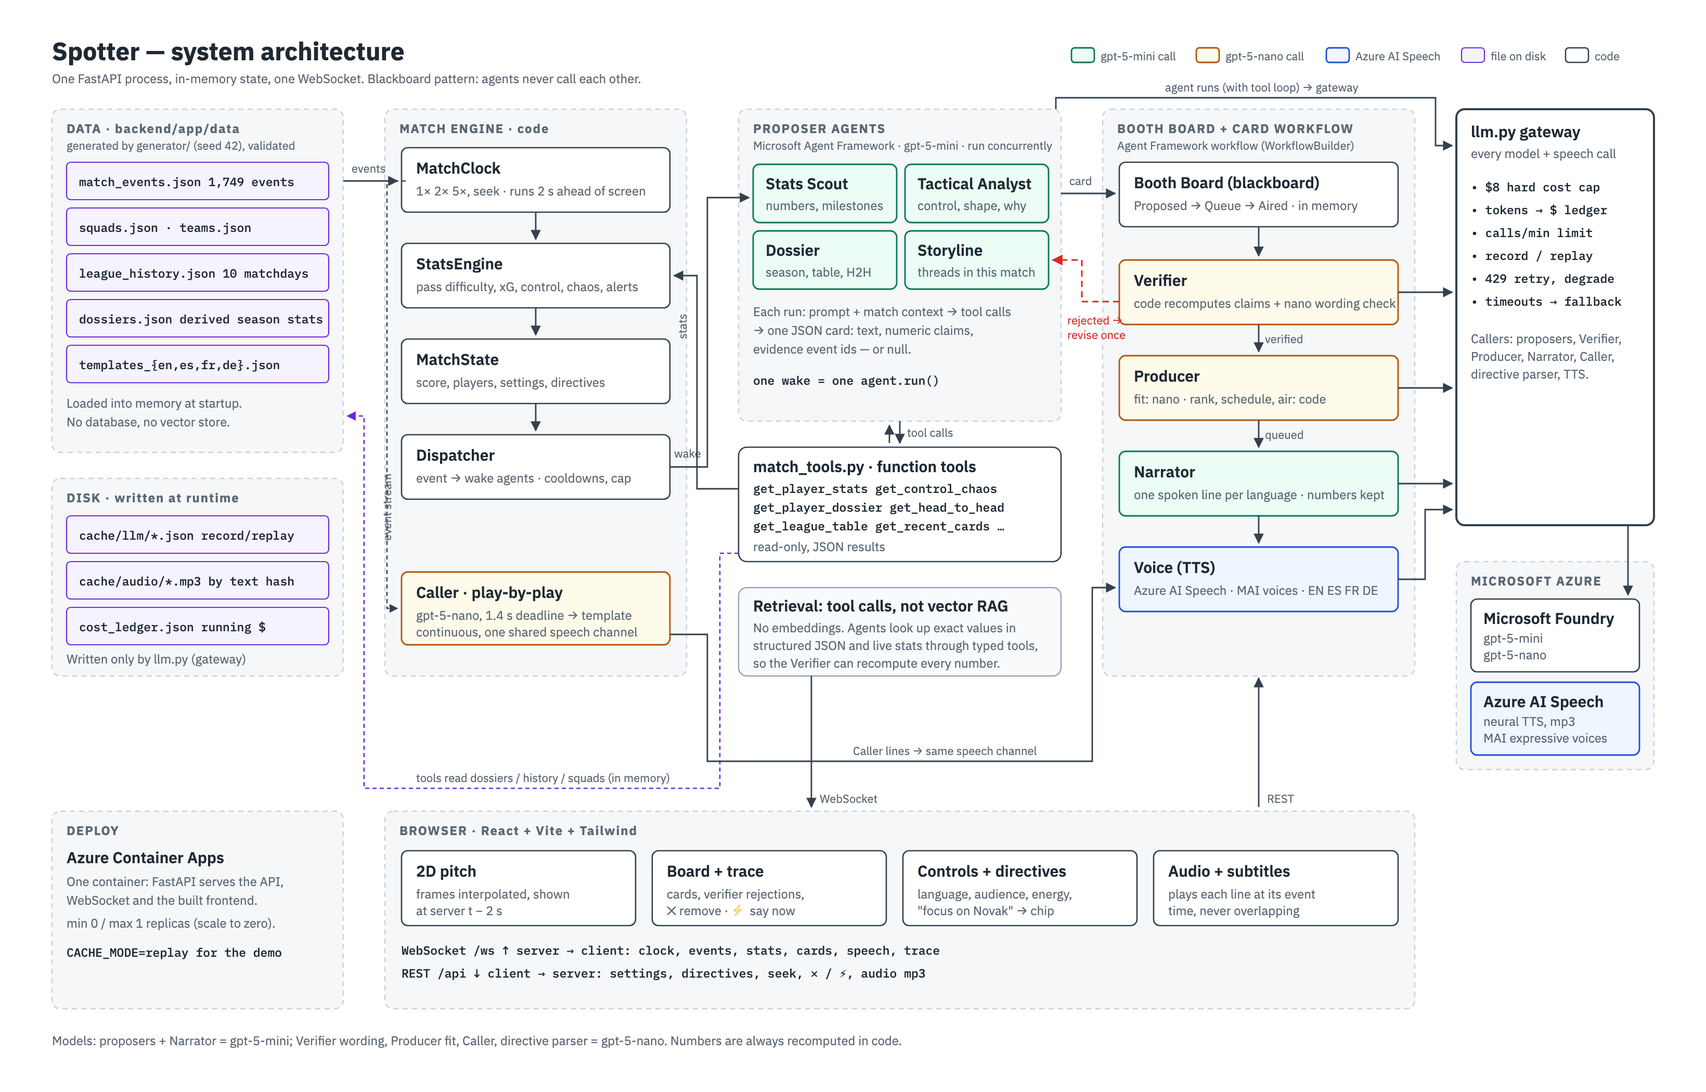
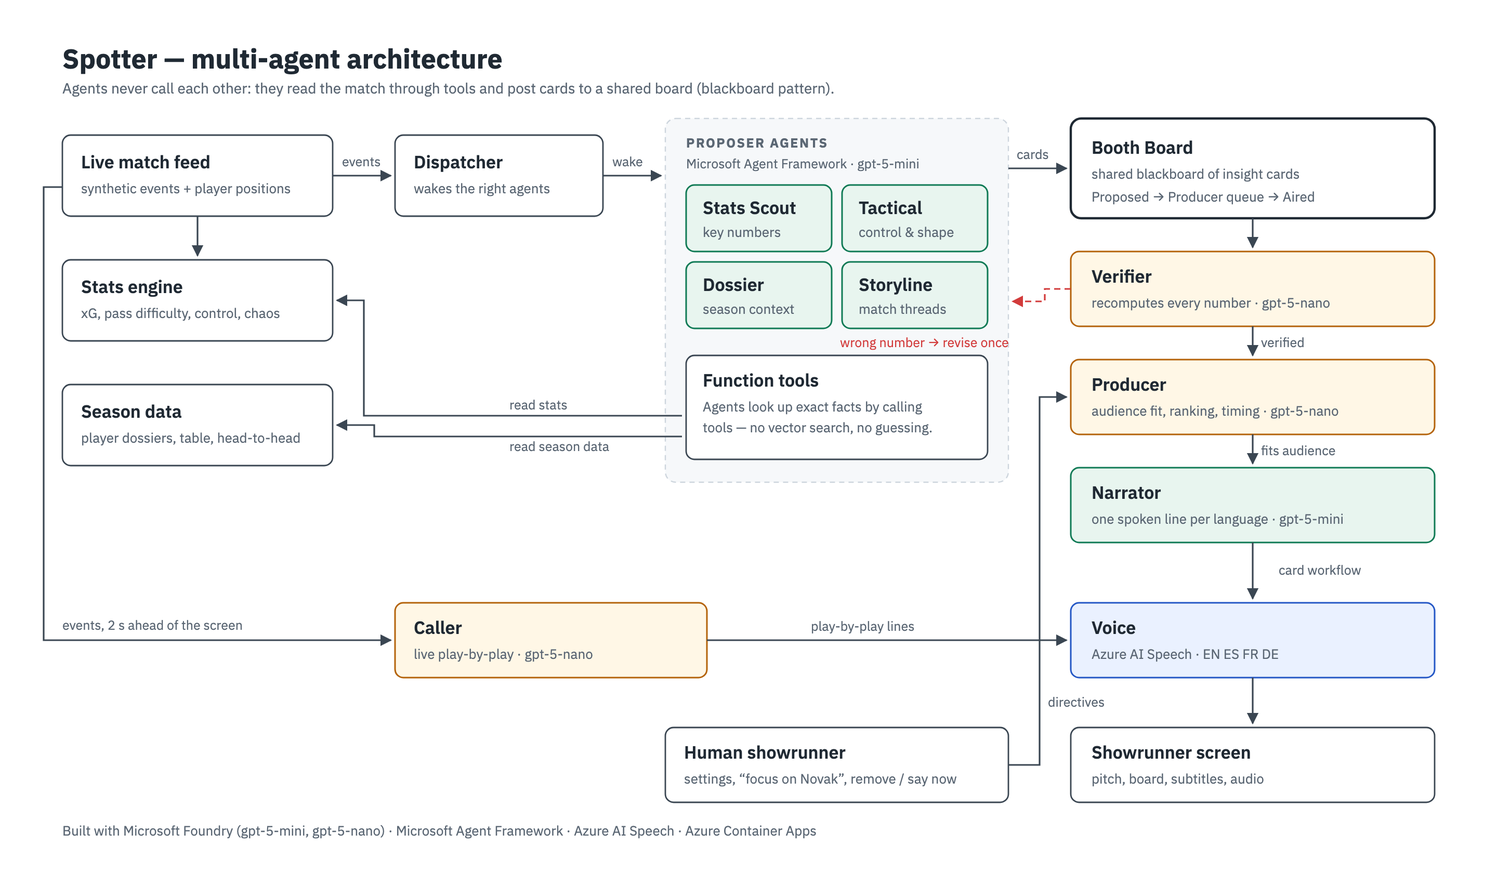
Architecture diagram: simplified to the multi-agent essentials

diff --git a/docs/architecture.html b/docs/architecture.html
@@ -1,16 +1,16 @@
 <title>Spotter Architecture</title>
 <meta name="claude:viewport-fit-sides" content="cover">
-<link rel="stylesheet" href="https://fonts.googleapis.com/css2?family=IBM+Plex+Sans:wght@400;500;600;700&family=IBM+Plex+Mono:wght@500&display=swap">
+<link rel="stylesheet" href="https://fonts.googleapis.com/css2?family=IBM+Plex+Sans:wght@400;500;600;700&display=swap">
 <style>
-/* Layout: one white technical diagram (draw.io style) in an SVG, five columns left→right:
-   data → match engine → proposer agents → board + card workflow → model gateway, browser underneath.
-   Deliberately a single light look so it screenshots cleanly into the README. */
+/* Layout: a lean white boxes-and-arrows diagram. Left: what the agents read. Middle: the four proposer
+   agents. Right: the shared board and the chain that decides what is said. Bottom: live play-by-play and
+   the human showrunner. Deliberately one light look so it screenshots cleanly into the README. */
 :root {
   color-scheme: light;
-  --bg: #ffffff; --ink: #1f2933; --muted: #5b6774; --line: #33404d; --group: #f5f7f9; --group-line: #c9d2db;
-  --mini: #047857; --mini-bg: #ecfdf5; --nano: #b45309; --nano-bg: #fffbeb; --speech: #1d4ed8; --speech-bg: #eff6ff;
-  --store: #6d28d9; --store-bg: #f5f3ff; --reject: #dc2626;
-  --sans: "IBM Plex Sans", system-ui, sans-serif; --mono: "IBM Plex Mono", ui-monospace, monospace;
+  --bg: #ffffff; --ink: #1f2933; --muted: #5b6774; --line: #3a4652; --group: #f6f8fa; --group-line: #cdd5dd;
+  --agent: #e8f5ef; --agent-line: #0f7a55; --check: #fff7e6; --check-line: #b4630a; --voice: #eaf1ff; --voice-line: #2457c5;
+  --reject: #d23b3b;
+  --sans: "IBM Plex Sans", system-ui, sans-serif;
 }
 body { background: var(--bg); color: var(--ink); font-family: var(--sans); }
 .wrap {
@@ -19,199 +19,118 @@ body { background: var(--bg); color: var(--ink); font-family: var(--sans); }
   padding-right: max(16px, env(safe-area-inset-right, 0px));
 }
 .scroll { overflow-x: auto; }
-svg { display: block; width: 100%; min-width: 1100px; max-width: 1600px; margin: 0 auto; height: auto; }
+svg { display: block; width: 100%; min-width: 960px; max-width: 1400px; margin: 0 auto; height: auto; }
 svg text { font-family: var(--sans); fill: var(--ink); }
-.t { font-size: 15px; font-weight: 600; }
-.s { font-size: 12px; fill: var(--muted); }
-.m { font-family: var(--mono); font-size: 11.5px; fill: var(--ink); }
-.g { font-size: 12px; font-weight: 700; letter-spacing: .08em; fill: var(--muted); }
-.h1 { font-size: 24px; font-weight: 700; }
-.lbl { font-size: 11px; fill: var(--muted); }
-.box { fill: #fff; stroke: var(--line); stroke-width: 1.3; }
+.title { font-size: 26px; font-weight: 700; }
+.sub { font-size: 14px; fill: var(--muted); }
+.t { font-size: 17px; font-weight: 600; }
+.s { font-size: 13px; fill: var(--muted); }
+.g { font-size: 12.5px; font-weight: 700; letter-spacing: .1em; fill: var(--muted); }
+.lbl { font-size: 12.5px; fill: var(--muted); }
+.pill { font-size: 11.5px; font-weight: 600; }
+.box { fill: #fff; stroke: var(--line); stroke-width: 1.4; }
 .grp { fill: var(--group); stroke: var(--group-line); stroke-width: 1.2; stroke-dasharray: 5 4; }
-.file { fill: var(--store-bg); stroke: var(--store); stroke-width: 1.1; }
-.mini { fill: var(--mini-bg); stroke: var(--mini); stroke-width: 1.4; }
-.nano { fill: var(--nano-bg); stroke: var(--nano); stroke-width: 1.4; }
-.speech { fill: var(--speech-bg); stroke: var(--speech); stroke-width: 1.4; }
-.a { stroke: var(--line); stroke-width: 1.4; fill: none; marker-end: url(#arr); }
-.ad { stroke: var(--line); stroke-width: 1.2; fill: none; stroke-dasharray: 4 3; marker-end: url(#arr); }
-.ar { stroke: var(--reject); stroke-width: 1.5; fill: none; stroke-dasharray: 6 4; marker-end: url(#arrR); }
-.ap { stroke: var(--store); stroke-width: 1.3; fill: none; stroke-dasharray: 4 3; marker-end: url(#arrP); }
+.agent { fill: var(--agent); stroke: var(--agent-line); stroke-width: 1.5; }
+.check { fill: var(--check); stroke: var(--check-line); stroke-width: 1.5; }
+.voice { fill: var(--voice); stroke: var(--voice-line); stroke-width: 1.5; }
+.board { fill: #fff; stroke: var(--ink); stroke-width: 2.2; }
+.a { stroke: var(--line); stroke-width: 1.6; fill: none; marker-end: url(#arr); }
+.ar { stroke: var(--reject); stroke-width: 1.6; fill: none; stroke-dasharray: 6 4; marker-end: url(#arrR); }
 </style>
 
 <div class="wrap"><div class="scroll">
-<svg viewBox="0 0 1600 1010" role="img" aria-label="Spotter system architecture diagram">
+<svg viewBox="0 0 1400 800" role="img" aria-label="Spotter multi-agent architecture">
   <defs>
-    <marker id="arr" viewBox="0 0 10 10" refX="9" refY="5" markerWidth="7" markerHeight="7" orient="auto-start-reverse"><path d="M0,0 L10,5 L0,10 z" fill="#33404d"/></marker>
-    <marker id="arrR" viewBox="0 0 10 10" refX="9" refY="5" markerWidth="7" markerHeight="7" orient="auto-start-reverse"><path d="M0,0 L10,5 L0,10 z" fill="#dc2626"/></marker>
-    <marker id="arrP" viewBox="0 0 10 10" refX="9" refY="5" markerWidth="7" markerHeight="7" orient="auto-start-reverse"><path d="M0,0 L10,5 L0,10 z" fill="#6d28d9"/></marker>
+    <marker id="arr" viewBox="0 0 10 10" refX="9" refY="5" markerWidth="7" markerHeight="7" orient="auto-start-reverse"><path d="M0,0 L10,5 L0,10 z" fill="#3a4652"/></marker>
+    <marker id="arrR" viewBox="0 0 10 10" refX="9" refY="5" markerWidth="7" markerHeight="7" orient="auto-start-reverse"><path d="M0,0 L10,5 L0,10 z" fill="#d23b3b"/></marker>
   </defs>
-  <rect width="1600" height="1010" fill="#ffffff"/>
+  <rect width="1400" height="800" fill="#ffffff"/>
 
-  <text x="30" y="38" class="h1">Spotter — system architecture</text>
-  <text x="30" y="60" class="s">One FastAPI process, in-memory state, one WebSocket. Blackboard pattern: agents never call each other.</text>
+  <text x="40" y="46" class="title">Spotter — multi-agent architecture</text>
+  <text x="40" y="70" class="sub">Agents never call each other: they read the match through tools and post cards to a shared board (blackboard pattern).</text>
 
-  <!-- legend -->
-  <g transform="translate(1010 26)">
-    <rect x="0" y="0" width="22" height="14" rx="3" class="mini"/><text x="28" y="12" class="lbl">gpt-5-mini call</text>
-    <rect x="120" y="0" width="22" height="14" rx="3" class="nano"/><text x="148" y="12" class="lbl">gpt-5-nano call</text>
-    <rect x="245" y="0" width="22" height="14" rx="3" class="speech"/><text x="273" y="12" class="lbl">Azure AI Speech</text>
-    <rect x="375" y="0" width="22" height="14" rx="3" class="file"/><text x="403" y="12" class="lbl">file on disk</text>
-    <rect x="475" y="0" width="22" height="14" rx="3" class="box"/><text x="503" y="12" class="lbl">code</text>
-  </g>
+  <!-- ===== Left: what the agents read ===== -->
+  <rect x="40" y="110" width="260" height="78" rx="8" class="box"/>
+  <text x="58" y="142" class="t">Live match feed</text>
+  <text x="58" y="166" class="s">synthetic events + player positions</text>
 
-  <!-- ===== Column 1: data ===== -->
-  <rect x="30" y="85" width="280" height="330" rx="8" class="grp"/>
-  <text x="44" y="108" class="g">DATA · backend/app/data</text>
-  <text x="44" y="124" class="lbl">generated by generator/ (seed 42), validated</text>
-  <rect x="44" y="136" width="252" height="36" rx="4" class="file"/><text x="56" y="159" class="m">match_events.json  1,749 events</text>
-  <rect x="44" y="180" width="252" height="36" rx="4" class="file"/><text x="56" y="203" class="m">squads.json · teams.json</text>
-  <rect x="44" y="224" width="252" height="36" rx="4" class="file"/><text x="56" y="247" class="m">league_history.json  10 matchdays</text>
-  <rect x="44" y="268" width="252" height="36" rx="4" class="file"/><text x="56" y="291" class="m">dossiers.json  derived season stats</text>
-  <rect x="44" y="312" width="252" height="36" rx="4" class="file"/><text x="56" y="335" class="m">templates_{en,es,fr,de}.json</text>
-  <text x="44" y="372" class="s">Loaded into memory at startup.</text>
-  <text x="44" y="390" class="s">No database, no vector store.</text>
+  <rect x="40" y="230" width="260" height="78" rx="8" class="box"/>
+  <text x="58" y="262" class="t">Stats engine</text>
+  <text x="58" y="286" class="s">xG, pass difficulty, control, chaos</text>
 
-  <rect x="30" y="440" width="280" height="190" rx="8" class="grp"/>
-  <text x="44" y="463" class="g">DISK · written at runtime</text>
-  <rect x="44" y="476" width="252" height="36" rx="4" class="file"/><text x="56" y="499" class="m">cache/llm/*.json  record/replay</text>
-  <rect x="44" y="520" width="252" height="36" rx="4" class="file"/><text x="56" y="543" class="m">cache/audio/*.mp3  by text hash</text>
-  <rect x="44" y="564" width="252" height="36" rx="4" class="file"/><text x="56" y="587" class="m">cost_ledger.json  running $</text>
-  <text x="44" y="618" class="s">Written only by llm.py (gateway)</text>
+  <rect x="40" y="350" width="260" height="78" rx="8" class="box"/>
+  <text x="58" y="382" class="t">Season data</text>
+  <text x="58" y="406" class="s">player dossiers, table, head-to-head</text>
 
-  <!-- ===== Column 2: match engine ===== -->
-  <rect x="350" y="85" width="290" height="545" rx="8" class="grp"/>
-  <text x="364" y="108" class="g">MATCH ENGINE · code</text>
-  <rect x="366" y="122" width="258" height="62" rx="6" class="box"/>
-  <text x="380" y="147" class="t">MatchClock</text><text x="380" y="168" class="s">1× 2× 5×, seek · runs 2 s ahead of screen</text>
-  <rect x="366" y="214" width="258" height="62" rx="6" class="box"/>
-  <text x="380" y="239" class="t">StatsEngine</text><text x="380" y="260" class="s">pass difficulty, xG, control, chaos, alerts</text>
-  <rect x="366" y="306" width="258" height="62" rx="6" class="box"/>
-  <text x="380" y="331" class="t">MatchState</text><text x="380" y="352" class="s">score, players, settings, directives</text>
-  <rect x="366" y="398" width="258" height="62" rx="6" class="box"/>
-  <text x="380" y="423" class="t">Dispatcher</text><text x="380" y="444" class="s">event → wake agents · cooldowns, cap</text>
-  <rect x="366" y="530" width="258" height="70" rx="6" class="nano"/>
-  <text x="380" y="555" class="t">Caller · play-by-play</text><text x="380" y="576" class="s">gpt-5-nano, 1.4 s deadline → template</text>
-  <text x="380" y="592" class="s">continuous, one shared speech channel</text>
+  <path d="M170 188 V226" class="a"/>
 
-  <path d="M495 184 V210" class="a"/>
-  <path d="M495 276 V302" class="a"/>
-  <path d="M495 368 V394" class="a"/>
-  <path d="M310 154 H362" class="a"/><text x="318" y="146" class="lbl">events</text>
-  <path d="M370 154 H352 V565 H362" class="ad"/><text x="356" y="500" class="lbl" transform="rotate(-90 356 500)">event stream</text>
+  <!-- dispatcher -->
+  <rect x="360" y="110" width="200" height="78" rx="8" class="box"/>
+  <text x="378" y="142" class="t">Dispatcher</text>
+  <text x="378" y="166" class="s">wakes the right agents</text>
+  <path d="M300 149 H356" class="a"/><text x="309" y="140" class="lbl">events</text>
 
-  <!-- ===== Column 3: proposer agents ===== -->
-  <rect x="690" y="85" width="310" height="300" rx="8" class="grp"/>
-  <text x="704" y="108" class="g">PROPOSER AGENTS</text>
-  <text x="704" y="124" class="lbl">Microsoft Agent Framework · gpt-5-mini · run concurrently</text>
-  <rect x="704" y="138" width="138" height="56" rx="6" class="mini"/><text x="716" y="162" class="t">Stats Scout</text><text x="716" y="182" class="s">numbers, milestones</text>
-  <rect x="850" y="138" width="138" height="56" rx="6" class="mini"/><text x="862" y="162" class="t">Tactical Analyst</text><text x="862" y="182" class="s">control, shape, why</text>
-  <rect x="704" y="202" width="138" height="56" rx="6" class="mini"/><text x="716" y="226" class="t">Dossier</text><text x="716" y="246" class="s">season, table, H2H</text>
-  <rect x="850" y="202" width="138" height="56" rx="6" class="mini"/><text x="862" y="226" class="t">Storyline</text><text x="862" y="246" class="s">threads in this match</text>
-  <text x="704" y="284" class="s">Each run: prompt + match context → tool calls</text>
-  <text x="704" y="302" class="s">→ one JSON card: text, numeric claims,</text>
-  <text x="704" y="320" class="s">evidence event ids — or null.</text>
-  <text x="704" y="350" class="m">one wake = one agent.run()</text>
+  <!-- ===== Middle: proposer agents ===== -->
+  <rect x="620" y="94" width="330" height="350" rx="10" class="grp"/>
+  <text x="640" y="122" class="g">PROPOSER AGENTS</text>
+  <text x="640" y="142" class="lbl">Microsoft Agent Framework · gpt-5-mini</text>
+  <rect x="640" y="158" width="140" height="64" rx="8" class="agent"/><text x="656" y="186" class="t">Stats Scout</text><text x="656" y="208" class="s">key numbers</text>
+  <rect x="790" y="158" width="140" height="64" rx="8" class="agent"/><text x="806" y="186" class="t">Tactical</text><text x="806" y="208" class="s">control &amp; shape</text>
+  <rect x="640" y="232" width="140" height="64" rx="8" class="agent"/><text x="656" y="260" class="t">Dossier</text><text x="656" y="282" class="s">season context</text>
+  <rect x="790" y="232" width="140" height="64" rx="8" class="agent"/><text x="806" y="260" class="t">Storyline</text><text x="806" y="282" class="s">match threads</text>
+  <rect x="640" y="322" width="290" height="100" rx="8" class="box"/>
+  <text x="656" y="352" class="t">Function tools</text>
+  <text x="656" y="376" class="s">Agents look up exact facts by calling</text>
+  <text x="656" y="396" class="s">tools — no vector search, no guessing.</text>
+  <path d="M560 149 H616" class="a"/><text x="569" y="140" class="lbl">wake</text>
+  <path d="M636 380 H330 V269 H304" class="a"/><text x="470" y="374" class="lbl">read stats</text>
+  <path d="M636 400 H340 V389 H304" class="a"/><text x="470" y="414" class="lbl">read season data</text>
 
-  <path d="M624 429 H660 V170 H700" class="a"/><text x="628" y="420" class="lbl">wake</text>
+  <!-- ===== Right: board + decision chain ===== -->
+  <rect x="1010" y="94" width="350" height="96" rx="10" class="board"/>
+  <text x="1030" y="128" class="t">Booth Board</text>
+  <text x="1030" y="152" class="s">shared blackboard of insight cards</text>
+  <text x="1030" y="174" class="s">Proposed → Producer queue → Aired</text>
+  <path d="M950 142 H1006" class="a"/><text x="958" y="133" class="lbl">cards</text>
 
-  <rect x="690" y="410" width="310" height="110" rx="8" class="box"/>
-  <text x="704" y="434" class="t">match_tools.py · function tools</text>
-  <text x="704" y="454" class="m">get_player_stats  get_control_chaos</text>
-  <text x="704" y="472" class="m">get_player_dossier  get_head_to_head</text>
-  <text x="704" y="490" class="m">get_league_table  get_recent_cards …</text>
-  <text x="704" y="510" class="s">read-only, JSON results</text>
-  <path d="M845 385 V406" class="a"/><path d="M835 406 V389" class="a"/>
-  <text x="852" y="400" class="lbl">tool calls</text>
-  <path d="M690 450 H650 V245 H628" class="a"/><text x="634" y="300" class="lbl" transform="rotate(-90 640 300)">stats</text>
-  <path d="M690 512 H672 V738 H330 V380 H314" class="ap"/><text x="380" y="732" class="lbl">tools read dossiers / history / squads (in memory)</text>
+  <rect x="1010" y="222" width="350" height="72" rx="8" class="check"/>
+  <text x="1030" y="252" class="t">Verifier</text>
+  <text x="1030" y="276" class="s">recomputes every number · gpt-5-nano</text>
+  <rect x="1010" y="326" width="350" height="72" rx="8" class="check"/>
+  <text x="1030" y="356" class="t">Producer</text>
+  <text x="1030" y="380" class="s">audience fit, ranking, timing · gpt-5-nano</text>
+  <rect x="1010" y="430" width="350" height="72" rx="8" class="agent"/>
+  <text x="1030" y="460" class="t">Narrator</text>
+  <text x="1030" y="484" class="s">one spoken line per language · gpt-5-mini</text>
+  <rect x="1010" y="560" width="350" height="72" rx="8" class="voice"/>
+  <text x="1030" y="590" class="t">Voice</text>
+  <text x="1030" y="614" class="s">Azure AI Speech · EN ES FR DE</text>
 
-  <rect x="690" y="545" width="310" height="85" rx="8" fill="#f8fafc" stroke="#94a3b8" stroke-width="1.2"/>
-  <text x="704" y="568" class="t">Retrieval: tool calls, not vector RAG</text>
-  <text x="704" y="588" class="s">No embeddings. Agents look up exact values in</text>
-  <text x="704" y="605" class="s">structured JSON and live stats through typed tools,</text>
-  <text x="704" y="622" class="s">so the Verifier can recompute every number.</text>
+  <path d="M1185 190 V218" class="a"/>
+  <path d="M1185 294 V322" class="a"/><text x="1193" y="314" class="lbl">verified</text>
+  <path d="M1185 398 V426" class="a"/><text x="1193" y="418" class="lbl">fits audience</text>
+  <path d="M1185 502 V556" class="a"/>
+  <path d="M1010 258 H985 V270 H954" class="ar"/>
+  <text x="788" y="314" class="lbl" style="fill:#d23b3b">wrong number → revise once</text>
+  <text x="1210" y="533" class="lbl">card workflow</text>
 
-  <!-- ===== Column 4: board + workflow ===== -->
-  <rect x="1040" y="85" width="300" height="545" rx="8" class="grp"/>
-  <text x="1054" y="108" class="g">BOOTH BOARD + CARD WORKFLOW</text>
-  <text x="1054" y="124" class="lbl">Agent Framework workflow (WorkflowBuilder)</text>
-  <rect x="1056" y="136" width="268" height="62" rx="6" class="box" stroke-width="2"/>
-  <text x="1070" y="161" class="t">Booth Board (blackboard)</text><text x="1070" y="182" class="s">Proposed → Queue → Aired · in memory</text>
-  <rect x="1056" y="230" width="268" height="62" rx="6" class="nano"/>
-  <text x="1070" y="255" class="t">Verifier</text><text x="1070" y="276" class="s">code recomputes claims + nano wording check</text>
-  <rect x="1056" y="322" width="268" height="62" rx="6" class="nano"/>
-  <text x="1070" y="347" class="t">Producer</text><text x="1070" y="368" class="s">fit: nano · rank, schedule, air: code</text>
-  <rect x="1056" y="414" width="268" height="62" rx="6" class="mini"/>
-  <text x="1070" y="439" class="t">Narrator</text><text x="1070" y="460" class="s">one spoken line per language · numbers kept</text>
-  <rect x="1056" y="506" width="268" height="62" rx="6" class="speech"/>
-  <text x="1070" y="531" class="t">Voice (TTS)</text><text x="1070" y="552" class="s">Azure AI Speech · MAI voices · EN ES FR DE</text>
+  <!-- ===== Bottom: play-by-play + showrunner ===== -->
+  <rect x="360" y="560" width="300" height="72" rx="8" class="check"/>
+  <text x="378" y="590" class="t">Caller</text>
+  <text x="378" y="614" class="s">live play-by-play · gpt-5-nano</text>
+  <path d="M40 160 H22 V596 H356" class="a"/><text x="40" y="586" class="lbl">events, 2 s ahead of the screen</text>
+  <path d="M660 596 H1006" class="a"/><text x="760" y="587" class="lbl">play-by-play lines</text>
 
-  <path d="M1000 166 H1052" class="a"/><text x="1008" y="158" class="lbl">card</text>
-  <path d="M1190 198 V226" class="a"/>
-  <path d="M1190 292 V318" class="a"/><text x="1196" y="310" class="lbl">verified</text>
-  <path d="M1190 384 V410" class="a"/><text x="1196" y="402" class="lbl">queued</text>
-  <path d="M1190 476 V502" class="a"/>
-  <path d="M1056 270 H1020 V230 H992" class="ar"/>
-  <text x="1006" y="292" class="lbl" fill="#dc2626" style="fill:#dc2626">rejected →</text>
-  <text x="1006" y="306" class="lbl" style="fill:#dc2626">revise once</text>
-  <path d="M624 590 H660 V712 H1030 V545 H1052" class="a"/>
-  <text x="800" y="706" class="lbl">Caller lines → same speech channel</text>
+  <rect x="1010" y="680" width="350" height="72" rx="8" class="box"/>
+  <text x="1030" y="710" class="t">Showrunner screen</text>
+  <text x="1030" y="734" class="s">pitch, board, subtitles, audio</text>
+  <path d="M1185 632 V676" class="a"/>
 
-  <!-- ===== Column 5: gateway + Azure ===== -->
-  <rect x="1380" y="85" width="190" height="400" rx="8" fill="#fff" stroke="#33404d" stroke-width="2"/>
-  <text x="1394" y="112" class="t">llm.py gateway</text>
-  <text x="1394" y="132" class="s">every model + speech call</text>
-  <text x="1394" y="164" class="m">• $8 hard cost cap</text>
-  <text x="1394" y="186" class="m">• tokens → $ ledger</text>
-  <text x="1394" y="208" class="m">• calls/min limit</text>
-  <text x="1394" y="230" class="m">• record / replay</text>
-  <text x="1394" y="252" class="m">• 429 retry, degrade</text>
-  <text x="1394" y="274" class="m">• timeouts → fallback</text>
-  <text x="1394" y="310" class="s">Callers: proposers, Verifier,</text>
-  <text x="1394" y="327" class="s">Producer, Narrator, Caller,</text>
-  <text x="1394" y="344" class="s">directive parser, TTS.</text>
+  <rect x="620" y="680" width="330" height="72" rx="8" class="box"/>
+  <text x="638" y="710" class="t">Human showrunner</text>
+  <text x="638" y="734" class="s">settings, “focus on Novak”, remove / say now</text>
+  <path d="M950 716 H980 V362 H1006" class="a"/><text x="988" y="660" class="lbl">directives</text>
 
-  <path d="M1324 261 H1376" class="a"/>
-  <path d="M1324 353 H1376" class="a"/>
-  <path d="M1324 445 H1376" class="a"/>
-  <path d="M1324 537 H1350 V470 H1376" class="a"/>
-  <path d="M995 85 V74 H1360 V120 H1376" class="a"/><text x="1100" y="68" class="lbl">agent runs (with tool loop) → gateway</text>
-
-
-  <rect x="1380" y="520" width="190" height="200" rx="8" class="grp"/>
-  <text x="1394" y="543" class="g">MICROSOFT AZURE</text>
-  <rect x="1394" y="556" width="162" height="70" rx="6" class="box"/>
-  <text x="1406" y="580" class="t">Microsoft Foundry</text><text x="1406" y="598" class="s">gpt-5-mini</text><text x="1406" y="614" class="s">gpt-5-nano</text>
-  <rect x="1394" y="636" width="162" height="70" rx="6" class="speech"/>
-  <text x="1406" y="660" class="t">Azure AI Speech</text><text x="1406" y="678" class="s">neural TTS, mp3</text><text x="1406" y="694" class="s">MAI expressive voices</text>
-  <path d="M1545 485 V552" class="a"/>
-
-  <!-- ===== Bottom: browser ===== -->
-  <rect x="350" y="760" width="990" height="190" rx="8" class="grp"/>
-  <text x="364" y="783" class="g">BROWSER · React + Vite + Tailwind</text>
-  <rect x="366" y="798" width="225" height="72" rx="6" class="box"/>
-  <text x="380" y="823" class="t">2D pitch</text><text x="380" y="844" class="s">frames interpolated, shown</text><text x="380" y="860" class="s">at server t − 2 s</text>
-  <rect x="607" y="798" width="225" height="72" rx="6" class="box"/>
-  <text x="621" y="823" class="t">Board + trace</text><text x="621" y="844" class="s">cards, verifier rejections,</text><text x="621" y="860" class="s">✕ remove · ⚡ say now</text>
-  <rect x="848" y="798" width="225" height="72" rx="6" class="box"/>
-  <text x="862" y="823" class="t">Controls + directives</text><text x="862" y="844" class="s">language, audience, energy,</text><text x="862" y="860" class="s">"focus on Novak" → chip</text>
-  <rect x="1089" y="798" width="235" height="72" rx="6" class="box"/>
-  <text x="1103" y="823" class="t">Audio + subtitles</text><text x="1103" y="844" class="s">plays each line at its event</text><text x="1103" y="860" class="s">time, never overlapping</text>
-  <text x="366" y="898" class="m">WebSocket /ws  ↑ server → client: clock, events, stats, cards, speech, trace</text>
-  <text x="366" y="920" class="m">REST /api      ↓ client → server: settings, directives, seek, ✕ / ⚡, audio mp3</text>
-
-  <path d="M760 630 V756" class="a"/><text x="768" y="752" class="lbl">WebSocket</text>
-  <path d="M1190 756 V632" class="a"/><text x="1198" y="752" class="lbl">REST</text>
-
-  <rect x="30" y="760" width="280" height="190" rx="8" class="grp"/>
-  <text x="44" y="783" class="g">DEPLOY</text>
-  <text x="44" y="810" class="t">Azure Container Apps</text>
-  <text x="44" y="832" class="s">One container: FastAPI serves the API,</text>
-  <text x="44" y="850" class="s">WebSocket and the built frontend.</text>
-  <text x="44" y="872" class="s">min 0 / max 1 replicas (scale to zero).</text>
-  <text x="44" y="900" class="m">CACHE_MODE=replay for the demo</text>
-
-  <text x="30" y="985" class="s">Models: proposers + Narrator = gpt-5-mini; Verifier wording, Producer fit, Caller, directive parser = gpt-5-nano. Numbers are always recomputed in code.</text>
+  <text x="40" y="784" class="s">Built with Microsoft Foundry (gpt-5-mini, gpt-5-nano) · Microsoft Agent Framework · Azure AI Speech · Azure Container Apps</text>
 </svg>
 </div></div>
